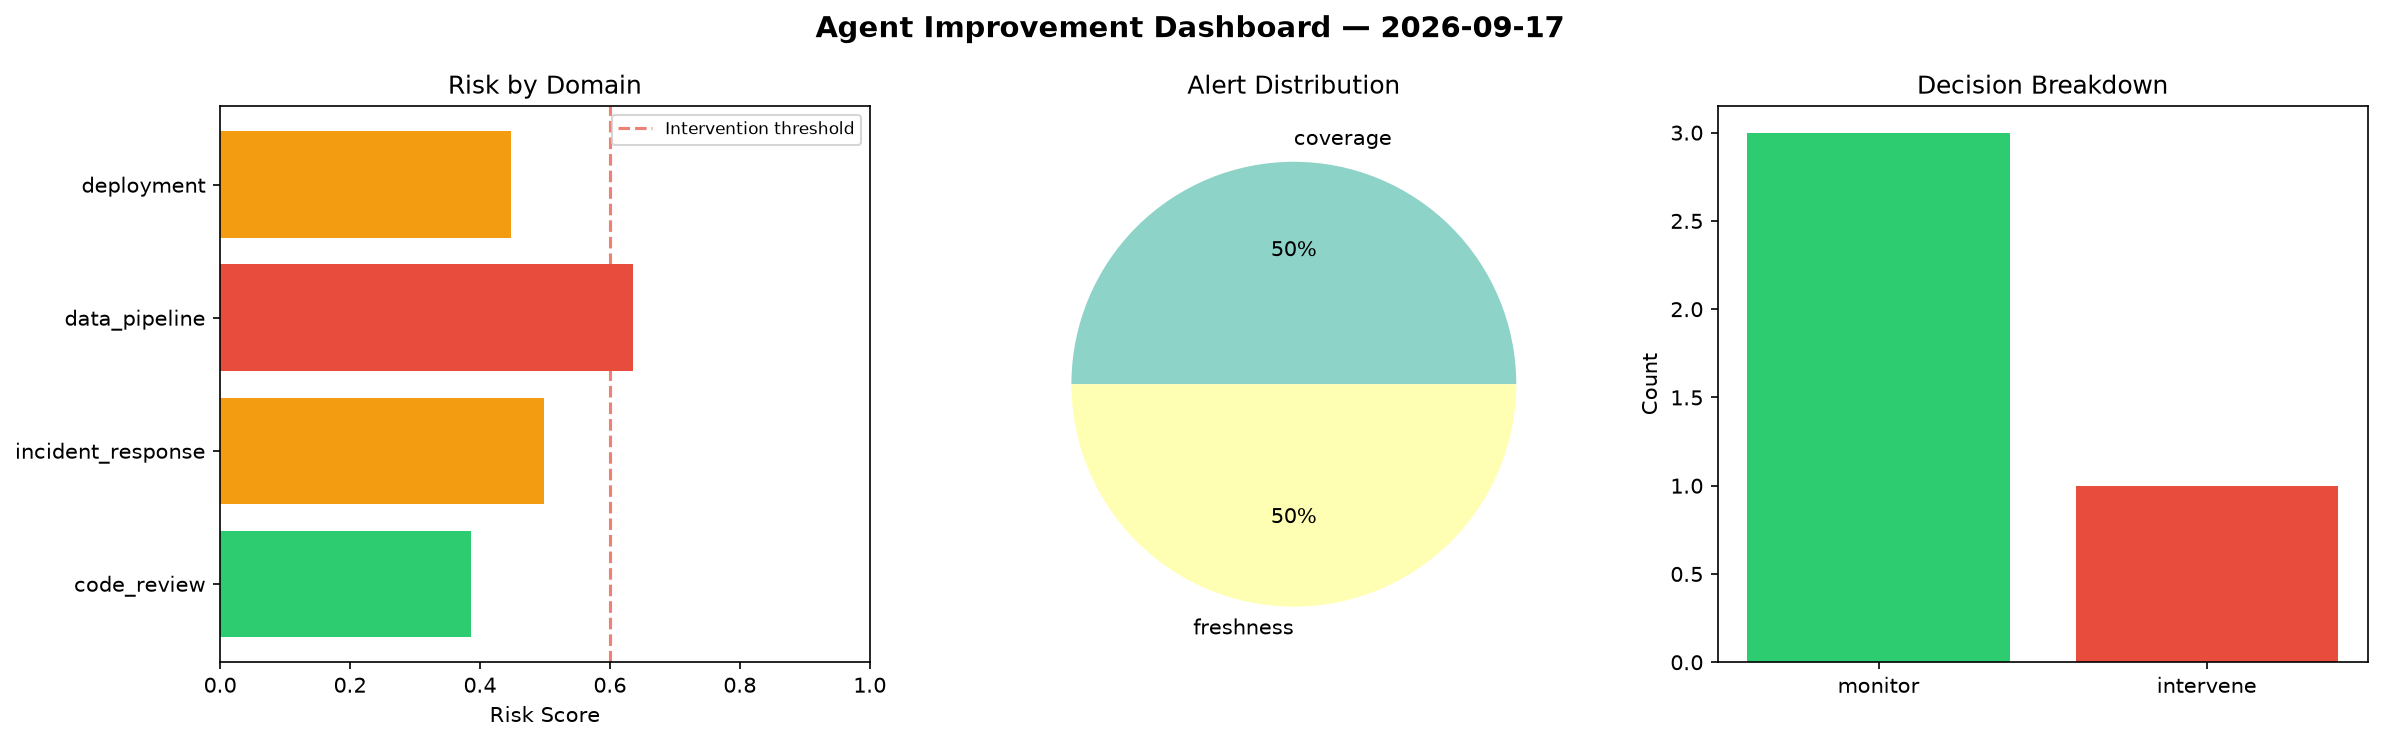
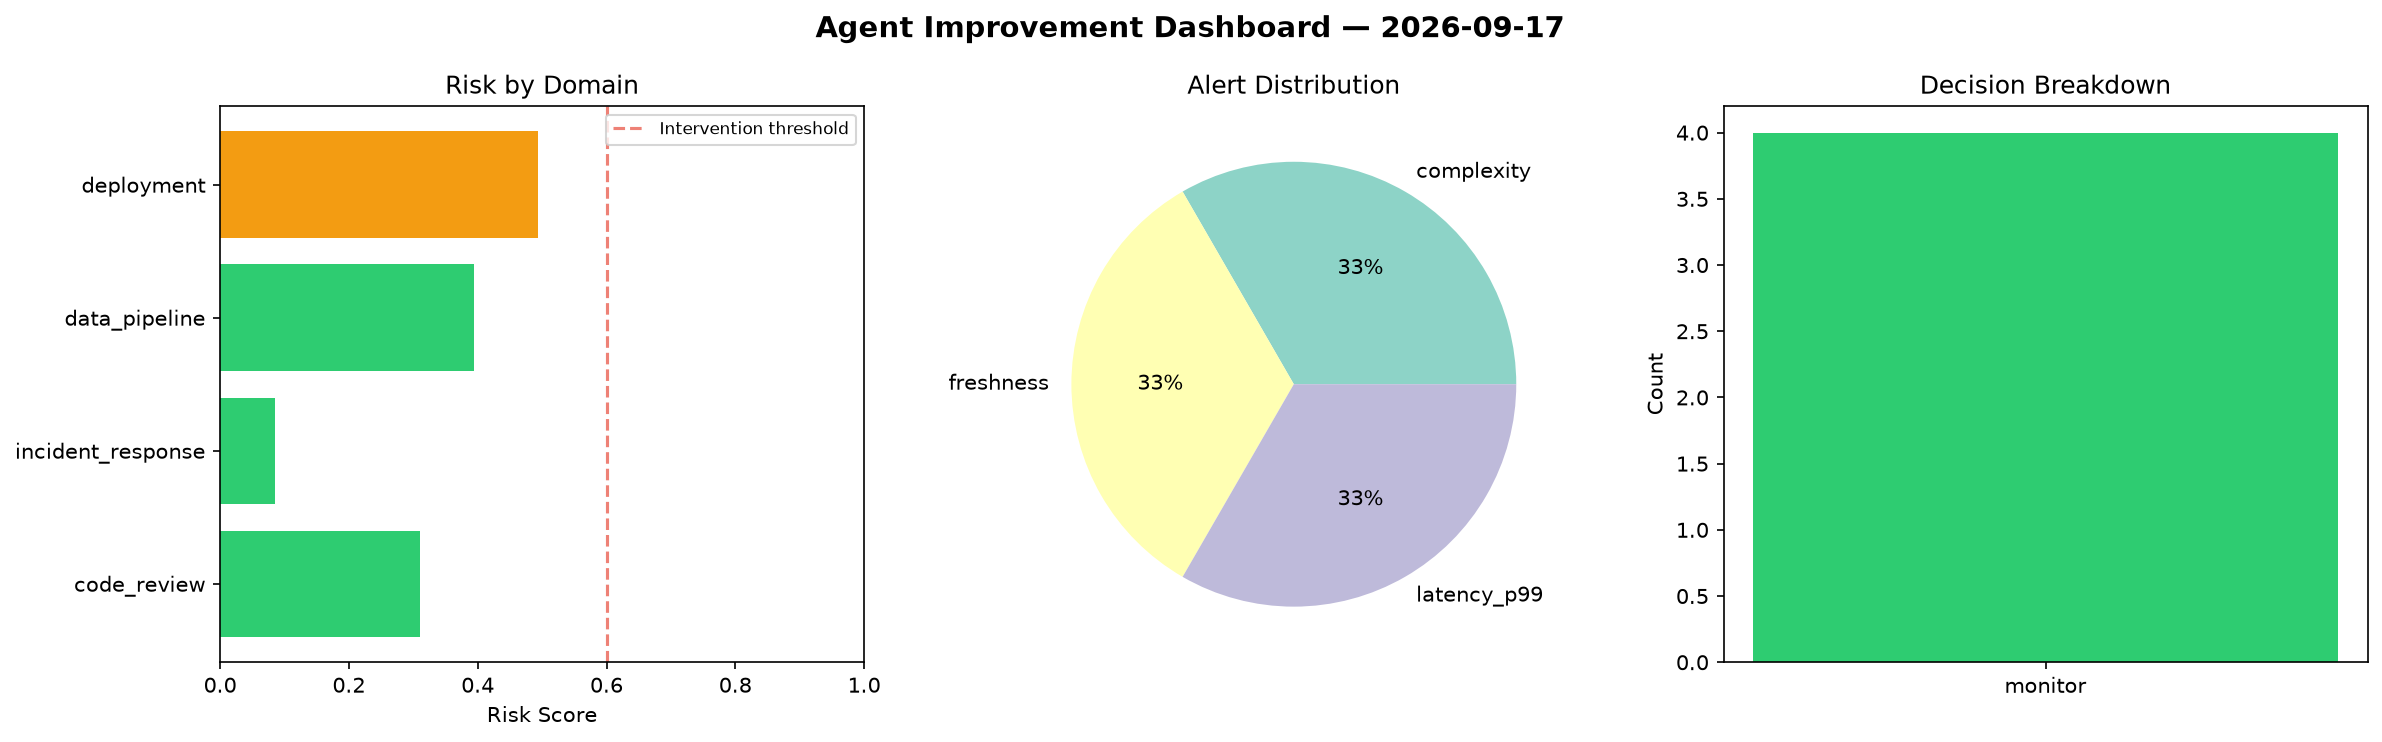
agent-improvement: daily cycle 2026-09-17T13:27

diff --git a/logs/2026-09-17.md b/logs/2026-09-17.md
@@ -1,6 +1,6 @@
 # Agent Improvement Report — 2026-09-17
 
-**Cycle ID:** `1631a0f8` | **Avg Risk:** 0.4922 | **Interventions:** 1/4
+**Cycle ID:** `66247dca` | **Avg Risk:** 0.3209 | **Interventions:** 0/4
 
 ![Dashboard](2026-09-17_dashboard.png)
 
@@ -10,18 +10,18 @@
 
 | Domain | Risk Score | Decision | Alerts |
 |--------|-----------|----------|--------|
-| code_review | 0.3867 | monitor | coverage |
-| incident_response | 0.4987 | monitor | none |
-| data_pipeline | 0.6358 | intervene | freshness |
-| deployment | 0.4476 | monitor | none |
+| code_review | 0.3108 | monitor | complexity |
+| incident_response | 0.0851 | monitor | none |
+| data_pipeline | 0.3944 | monitor | freshness |
+| deployment | 0.4934 | monitor | latency_p99 |
 
 ## Delta vs Yesterday
 
 | Domain | Today | Yesterday | Change |
 |--------|-------|-----------|--------|
-| code_review | 0.3867 | 0.7726 | 📉 -49.9% |
-| incident_response | 0.4987 | 0.738 | 📉 -32.4% |
-| data_pipeline | 0.6358 | 0.2551 | 📈 149.2% |
-| deployment | 0.4476 | 0.6899 | 📉 -35.1% |
+| code_review | 0.3108 | 0.7726 | 📉 -59.8% |
+| incident_response | 0.0851 | 0.738 | 📉 -88.5% |
+| data_pipeline | 0.3944 | 0.2551 | 📈 54.6% |
+| deployment | 0.4934 | 0.6899 | 📉 -28.5% |
 
 **Refinement:** `{'adjustment': 'tighten_thresholds', 'trend': 'degrading', 'window': 4}`
